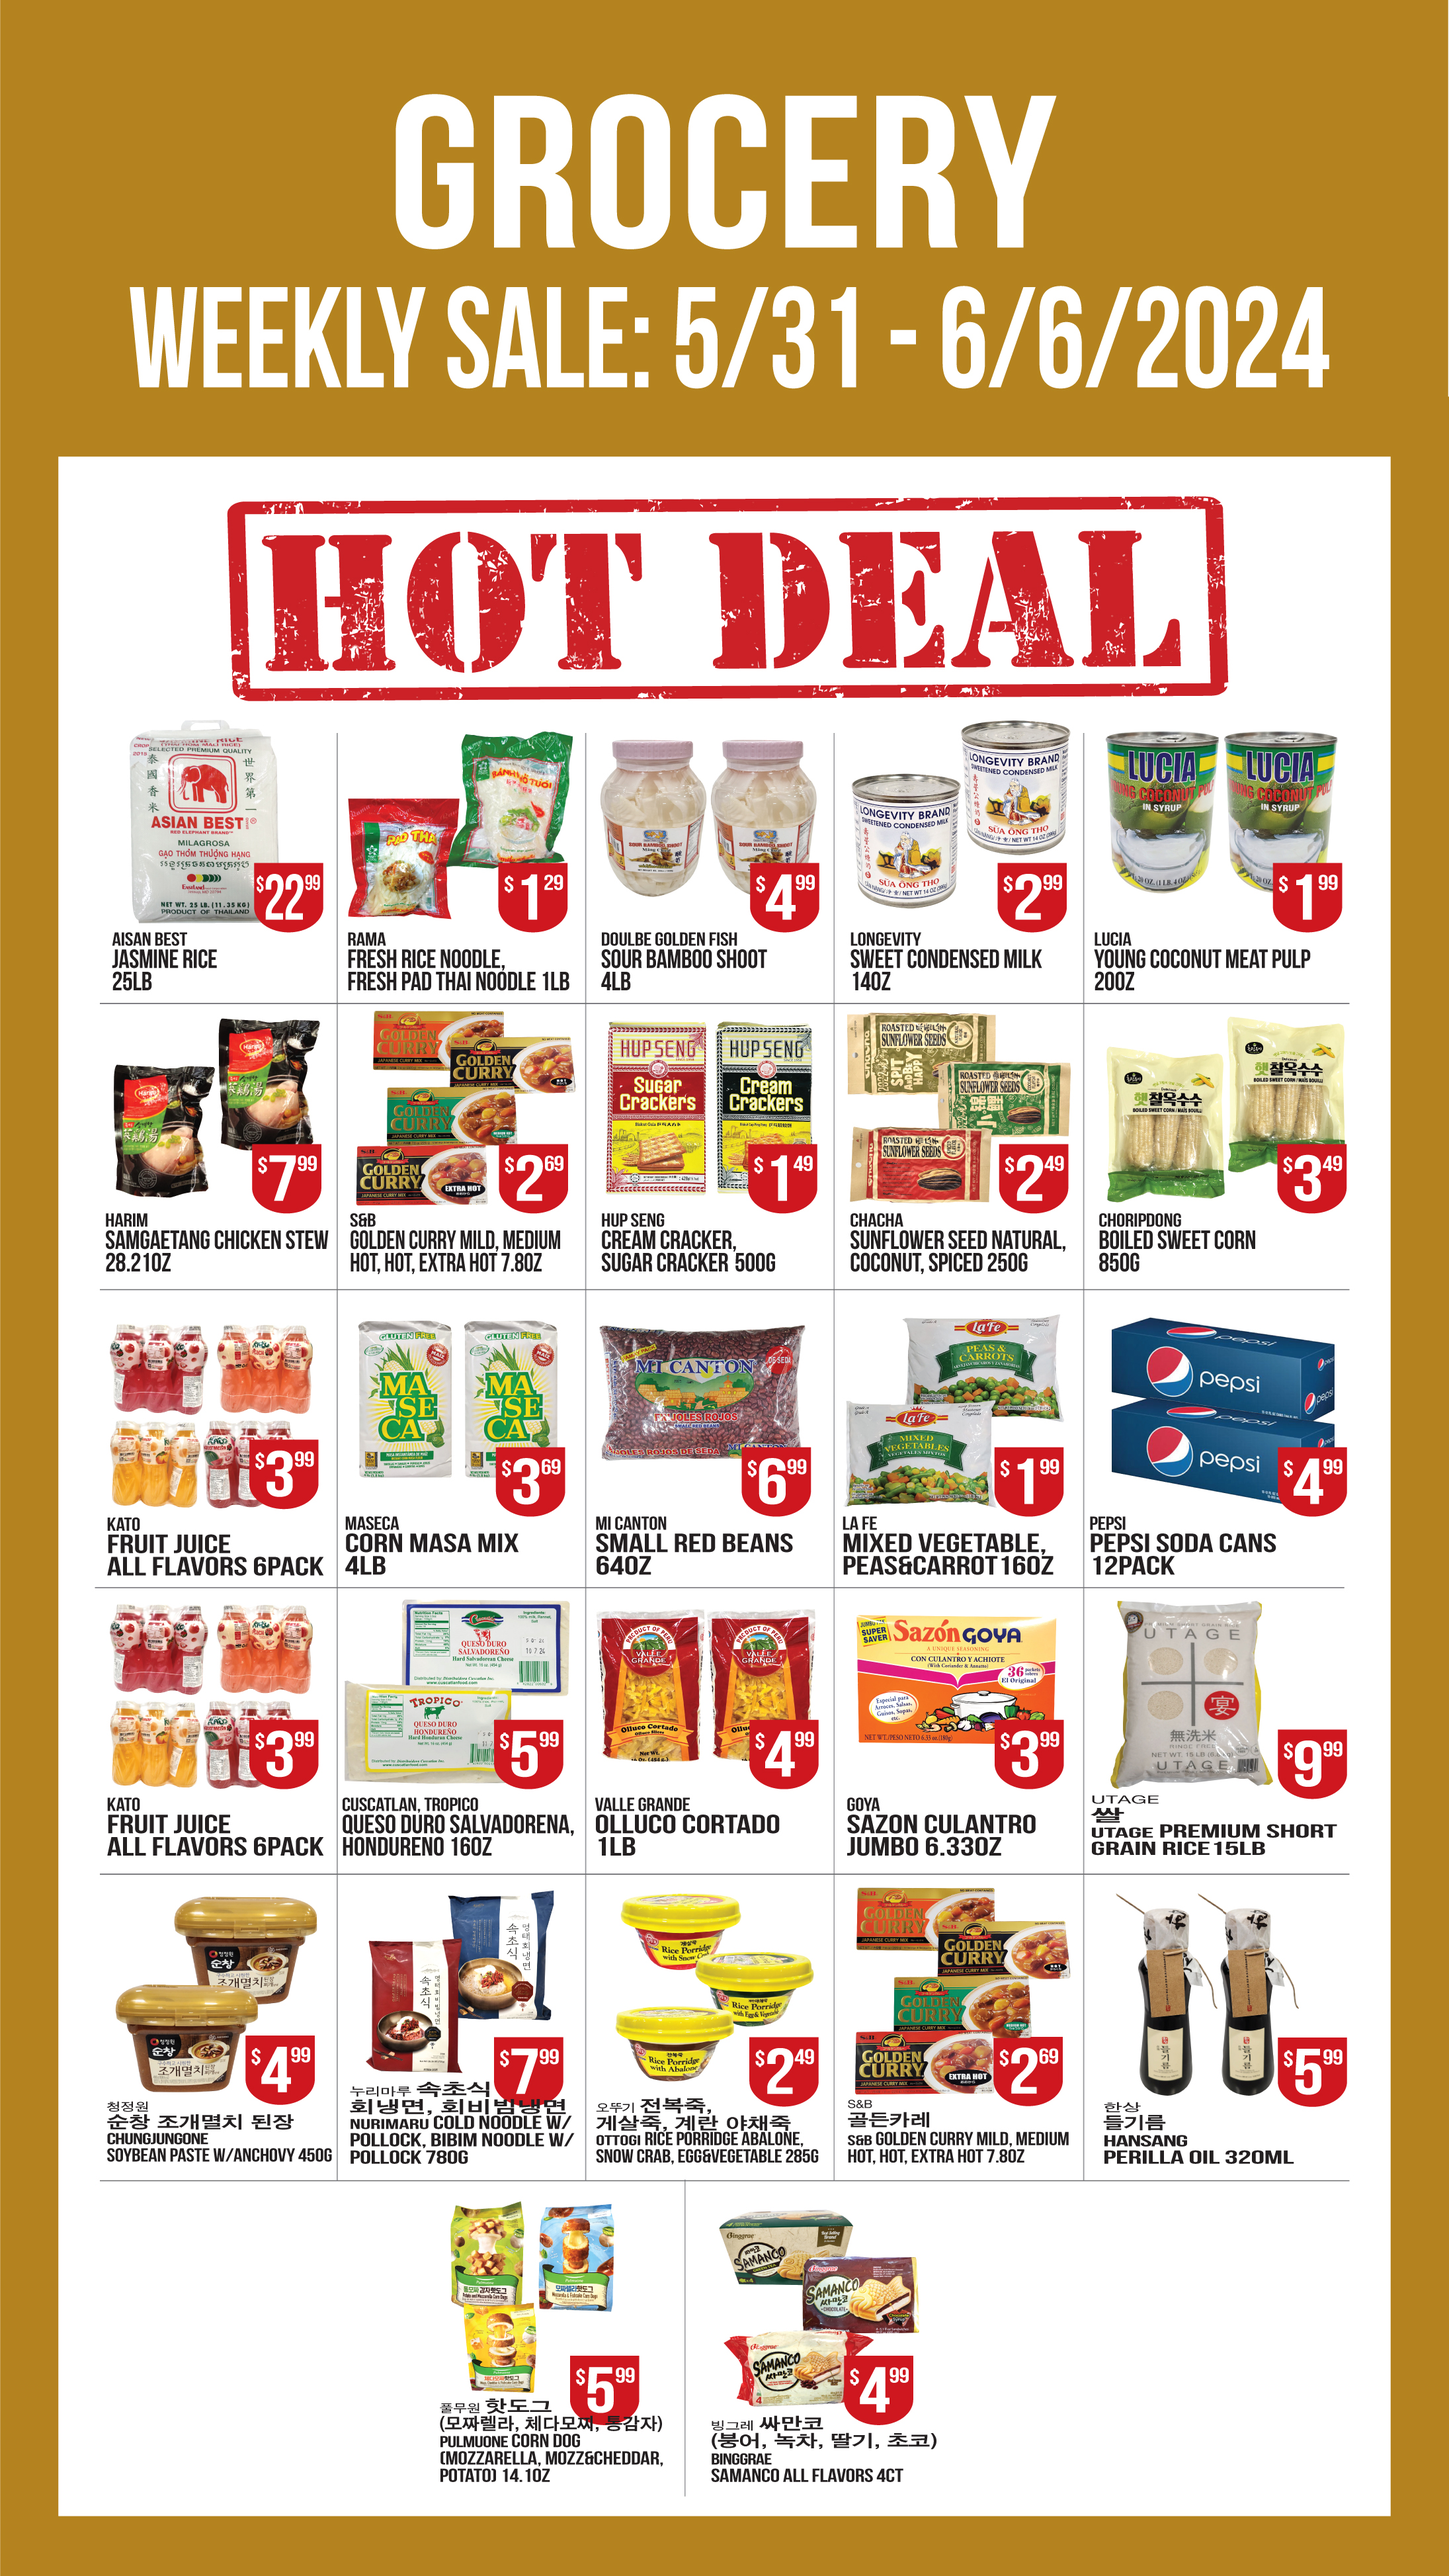
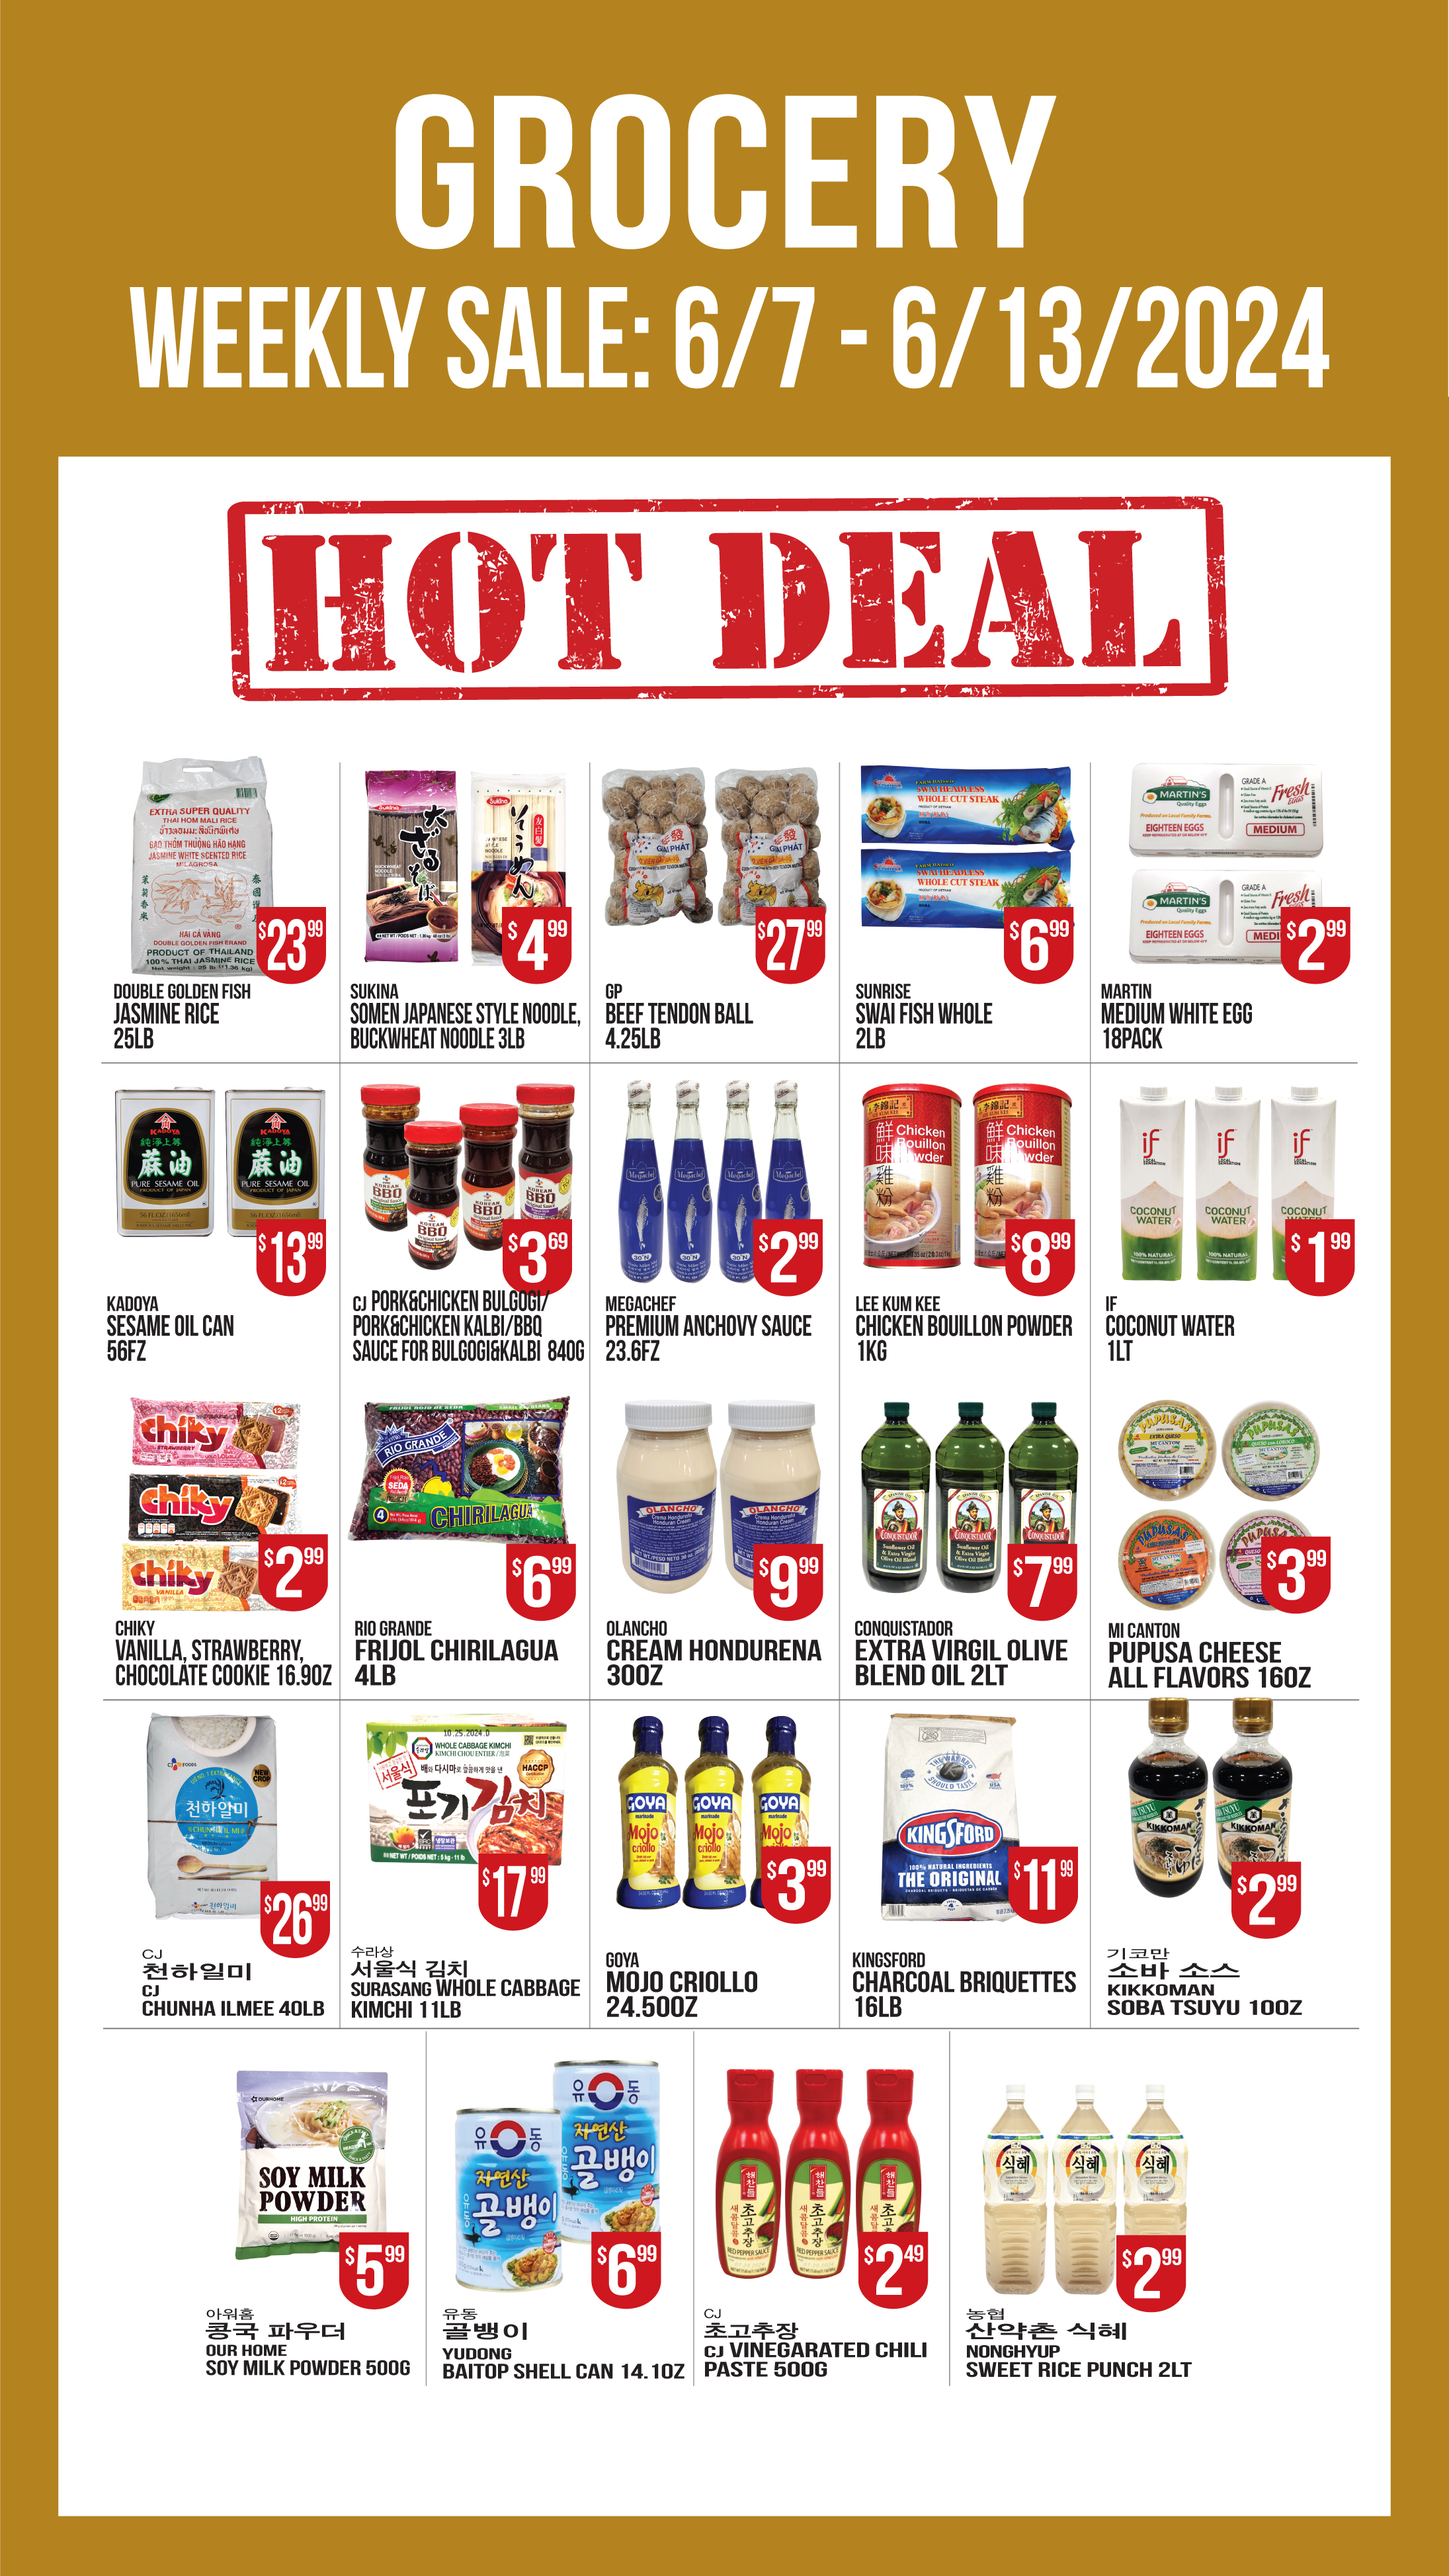
weekly specials

diff --git a/index.html b/index.html
@@ -64,16 +64,16 @@
           <img src="./public/assets/sp.jpg" class="d-block w-100 img-fluid" alt="...">
         </div> -->
         <div class="carousel-item center-carousel active">
-          <img src="./public/assets/weekly/meat.jpg?v=0531" class="img-fluid" alt="...">
+          <img src="./public/assets/weekly/meat.jpg?v=0607" class="img-fluid" alt="...">
         </div>
         <div class="carousel-item center-carousel">
-          <img src="./public/assets/weekly/veg.jpg?v=0531" class="img-fluid" alt="...">
+          <img src="./public/assets/weekly/veg.jpg?v=0607" class="img-fluid" alt="...">
         </div>
         <div class="carousel-item center-carousel">
-          <img src="./public/assets/weekly/fish.jpg?v=0531" class="img-fluid" alt="...">
+          <img src="./public/assets/weekly/fish.jpg?v=0607" class="img-fluid" alt="...">
         </div>
         <div class="carousel-item center-carousel">
-          <img src="./public/assets/weekly/grocery.jpg?v=0531" class="img-fluid" alt="...">
+          <img src="./public/assets/weekly/grocery.jpg?v=0607" class="img-fluid" alt="...">
         </div>
         <!-- <div class="carousel-item center-carousel">
           <img src="./public/assets/sale/grocery2.jpg?v=070623" class="img-fluid" alt="...">

diff --git a/deals.html b/deals.html
@@ -50,15 +50,15 @@
     <div class="row deal">
 
       <h2>English</h2>
-      <img class="img-fluid" src="./public/assets/weekly/english.jpg?v=0531">
+      <img class="img-fluid" src="./public/assets/weekly/english.jpg?v=0607">
 
       <br><br>
       <h2>Spanish</h2>
-      <img class="img-fluid" src="./public/assets/weekly/spanish.jpg?v=0531">
+      <img class="img-fluid" src="./public/assets/weekly/spanish.jpg?v=0607">
 
       <br>
       <h2>Korean</h2>
-      <img class="img-fluid" src="./public/assets/weekly/korean.jpg?v=0531">
+      <img class="img-fluid" src="./public/assets/weekly/korean.jpg?v=0607">
       <br>
       <br>
     </div>
